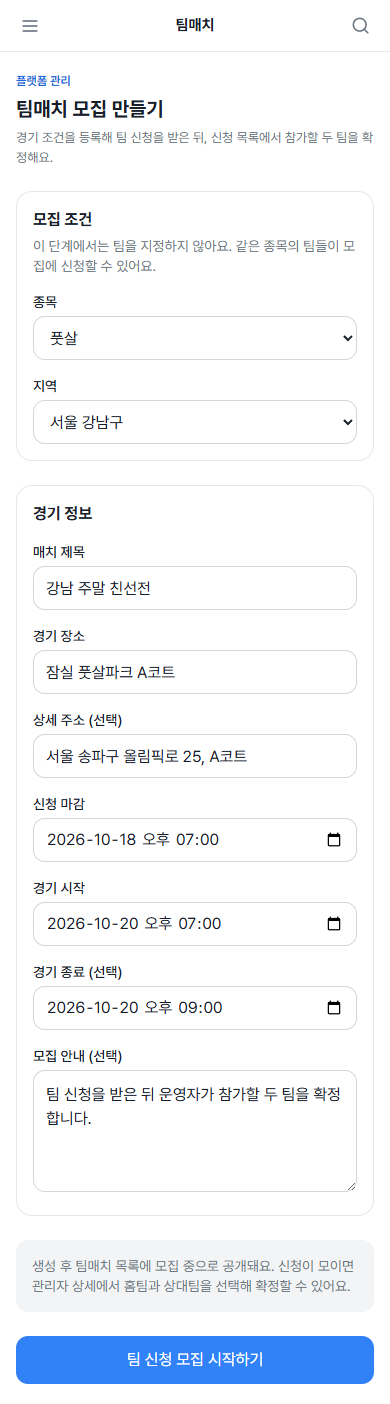
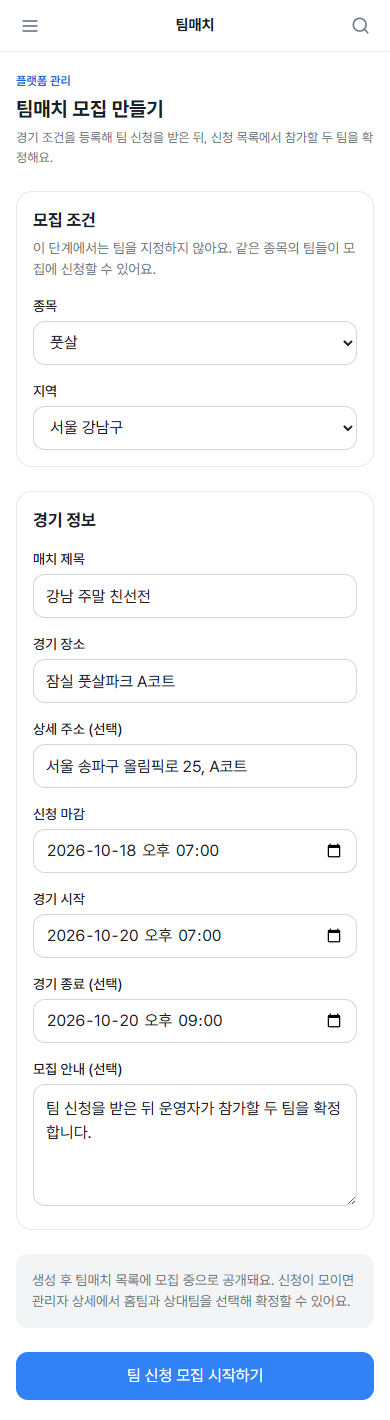
fix: use admin typography tokens

diff --git a/apps/v1_web/src/app/admin/team-matches/new/page.tsx b/apps/v1_web/src/app/admin/team-matches/new/page.tsx
@@ -14,7 +14,7 @@ import { randomUuid } from '@/lib/uuid';
 import { toDistrictRegionOptions } from '@/lib/v1-regions';
 
 const inputClass =
-  'h-[44px] w-full rounded-xl border border-[var(--border-strong)] bg-[var(--card-surface)] px-3 text-sm text-[var(--text-strong)] placeholder:text-gray-400 focus:border-blue-500 focus:outline-none focus:ring-2 focus:ring-blue-500/20 disabled:opacity-50';
+  'h-[44px] w-full rounded-xl border border-[var(--border-strong)] bg-[var(--card-surface)] px-3 text-[length:var(--font-size-body-sm)] text-[var(--text-strong)] placeholder:text-gray-400 focus:border-blue-500 focus:outline-none focus:ring-2 focus:ring-blue-500/20 disabled:opacity-50';
 
 export default function AdminTeamMatchNewPage() {
   const router = useRouter();
@@ -75,26 +75,26 @@ export default function AdminTeamMatchNewPage() {
       />
 
       {!canWrite && adminMe ? (
-        <div role="alert" className="rounded-xl border border-[var(--border)] bg-[var(--surface-soft)] p-4 text-sm text-[var(--text-muted)]">
+        <div role="alert" className="rounded-xl border border-[var(--border)] bg-[var(--surface-soft)] p-4 text-[length:var(--font-size-body-sm)] text-[var(--text-muted)]">
           지원 관리자에게는 팀매치 모집 생성 권한이 없어요.
         </div>
       ) : (
         <div className="space-y-6">
           <section className="space-y-4 rounded-2xl border border-[var(--border)] bg-[var(--card-surface)] p-4 md:p-5">
             <div>
-              <h2 className="text-base font-bold text-[var(--text-strong)]">모집 조건</h2>
-              <p className="mt-1 text-sm text-[var(--text-muted)]">이 단계에서는 팀을 지정하지 않아요. 같은 종목의 팀들이 모집에 신청할 수 있어요.</p>
+              <h2 className="text-[length:var(--font-size-body-lg)] font-bold text-[var(--text-strong)]">모집 조건</h2>
+              <p className="mt-1 text-[length:var(--font-size-body-sm)] text-[var(--text-muted)]">이 단계에서는 팀을 지정하지 않아요. 같은 종목의 팀들이 모집에 신청할 수 있어요.</p>
             </div>
             <div className="grid gap-4 md:grid-cols-2">
               <div>
-                <label htmlFor="admin-team-match-sport" className="mb-1 block text-sm font-medium text-[var(--text-strong)]">종목</label>
+                <label htmlFor="admin-team-match-sport" className="mb-1 block text-[length:var(--font-size-body-sm)] font-medium text-[var(--text-strong)]">종목</label>
                 <select id="admin-team-match-sport" value={sportId} onChange={(event) => setSportId(event.target.value)} className={inputClass}>
                   <option value="">종목 선택</option>
                   {(sports ?? []).map((sport) => <option key={sport.id} value={sport.id}>{sport.name}</option>)}
                 </select>
               </div>
               <div>
-                <label htmlFor="admin-team-match-region" className="mb-1 block text-sm font-medium text-[var(--text-strong)]">지역</label>
+                <label htmlFor="admin-team-match-region" className="mb-1 block text-[length:var(--font-size-body-sm)] font-medium text-[var(--text-strong)]">지역</label>
                 <select id="admin-team-match-region" value={regionId} onChange={(event) => setRegionId(event.target.value)} className={inputClass}>
                   <option value="">시·군·구 선택</option>
                   {regionOptions.map((region) => <option key={region.id} value={region.id}>{region.name}</option>)}
@@ -104,40 +104,40 @@ export default function AdminTeamMatchNewPage() {
           </section>
 
           <section className="space-y-4 rounded-2xl border border-[var(--border)] bg-[var(--card-surface)] p-4 md:p-5">
-            <h2 className="text-base font-bold text-[var(--text-strong)]">경기 정보</h2>
+            <h2 className="text-[length:var(--font-size-body-lg)] font-bold text-[var(--text-strong)]">경기 정보</h2>
             <div>
-              <label htmlFor="admin-team-match-title" className="mb-1 block text-sm font-medium text-[var(--text-strong)]">매치 제목</label>
+              <label htmlFor="admin-team-match-title" className="mb-1 block text-[length:var(--font-size-body-sm)] font-medium text-[var(--text-strong)]">매치 제목</label>
               <input id="admin-team-match-title" value={title} onChange={(event) => setTitle(event.target.value)} maxLength={100} placeholder="예: 강남 주말 친선전" className={inputClass} />
             </div>
             <div>
-              <label htmlFor="admin-team-match-place" className="mb-1 block text-sm font-medium text-[var(--text-strong)]">경기 장소</label>
+              <label htmlFor="admin-team-match-place" className="mb-1 block text-[length:var(--font-size-body-sm)] font-medium text-[var(--text-strong)]">경기 장소</label>
               <input id="admin-team-match-place" value={placeName} onChange={(event) => setPlaceName(event.target.value)} maxLength={120} placeholder="장소명" className={inputClass} />
             </div>
             <div>
-              <label htmlFor="admin-team-match-address" className="mb-1 block text-sm font-medium text-[var(--text-strong)]">상세 주소 (선택)</label>
+              <label htmlFor="admin-team-match-address" className="mb-1 block text-[length:var(--font-size-body-sm)] font-medium text-[var(--text-strong)]">상세 주소 (선택)</label>
               <input id="admin-team-match-address" value={addressText} onChange={(event) => setAddressText(event.target.value)} maxLength={200} placeholder="도로명 주소 또는 코트 안내" className={inputClass} />
             </div>
             <div className="grid gap-4 md:grid-cols-2">
               <div>
-                <label htmlFor="admin-team-match-deadline" className="mb-1 block text-sm font-medium text-[var(--text-strong)]">신청 마감</label>
+                <label htmlFor="admin-team-match-deadline" className="mb-1 block text-[length:var(--font-size-body-sm)] font-medium text-[var(--text-strong)]">신청 마감</label>
                 <input id="admin-team-match-deadline" type="datetime-local" value={deadlineAt} onChange={(event) => setDeadlineAt(event.target.value)} max={startsAt || undefined} className={inputClass} />
               </div>
               <div>
-                <label htmlFor="admin-team-match-start" className="mb-1 block text-sm font-medium text-[var(--text-strong)]">경기 시작</label>
+                <label htmlFor="admin-team-match-start" className="mb-1 block text-[length:var(--font-size-body-sm)] font-medium text-[var(--text-strong)]">경기 시작</label>
                 <input id="admin-team-match-start" type="datetime-local" value={startsAt} onChange={(event) => setStartsAt(event.target.value)} min={deadlineAt || undefined} className={inputClass} />
               </div>
             </div>
             <div>
-              <label htmlFor="admin-team-match-end" className="mb-1 block text-sm font-medium text-[var(--text-strong)]">경기 종료 (선택)</label>
+              <label htmlFor="admin-team-match-end" className="mb-1 block text-[length:var(--font-size-body-sm)] font-medium text-[var(--text-strong)]">경기 종료 (선택)</label>
               <input id="admin-team-match-end" type="datetime-local" value={endsAt} onChange={(event) => setEndsAt(event.target.value)} min={startsAt || undefined} className={inputClass} />
             </div>
             <div>
-              <label htmlFor="admin-team-match-description" className="mb-1 block text-sm font-medium text-[var(--text-strong)]">모집 안내 (선택)</label>
+              <label htmlFor="admin-team-match-description" className="mb-1 block text-[length:var(--font-size-body-sm)] font-medium text-[var(--text-strong)]">모집 안내 (선택)</label>
               <textarea id="admin-team-match-description" value={description} onChange={(event) => setDescription(event.target.value)} maxLength={2000} rows={4} className={`${inputClass} h-auto min-h-[112px] py-3`} />
             </div>
           </section>
 
-          <div className="rounded-xl bg-[var(--surface-soft)] p-4 text-sm text-[var(--text-muted)]">
+          <div className="rounded-xl bg-[var(--surface-soft)] p-4 text-[length:var(--font-size-body-sm)] text-[var(--text-muted)]">
             생성 후 팀매치 목록에 모집 중으로 공개돼요. 신청이 모이면 관리자 상세에서 홈팀과 상대팀을 선택해 확정할 수 있어요.
           </div>
 
@@ -145,7 +145,7 @@ export default function AdminTeamMatchNewPage() {
             type="button"
             onClick={() => void submit()}
             disabled={!canSubmit || createRecruitment.isPending}
-            className="min-h-[48px] w-full rounded-xl bg-blue-500 px-5 text-sm font-semibold text-white transition-colors hover:bg-blue-600 disabled:cursor-not-allowed disabled:opacity-50 focus-visible:outline-2 focus-visible:outline-blue-500 focus-visible:outline-offset-2"
+            className="min-h-[48px] w-full rounded-xl bg-blue-500 px-5 text-[length:var(--font-size-body-sm)] font-semibold text-white transition-colors hover:bg-blue-600 disabled:cursor-not-allowed disabled:opacity-50 focus-visible:outline-2 focus-visible:outline-blue-500 focus-visible:outline-offset-2"
           >
             {createRecruitment.isPending ? '모집 만드는 중…' : '팀 신청 모집 시작하기'}
           </button>

diff --git a/apps/v1_web/src/app/admin/team-matches/[id]/page.tsx b/apps/v1_web/src/app/admin/team-matches/[id]/page.tsx
@@ -117,41 +117,41 @@ function Applications({ teamMatch }: { teamMatch: V1AdminTeamMatchDetail }) {
 
       {isPlatformRecruitment && teamMatch.status === 'recruiting' && canWrite && (
         <div className="mt-5 rounded-xl border border-[var(--border)] bg-[var(--surface-soft)] p-4">
-          <h3 className="text-sm font-bold text-[var(--text-strong)]">참가팀 확정</h3>
-          <p className="mt-1 text-xs text-[var(--text-muted)]">신청한 팀 중 홈팀과 상대팀을 각각 선택하세요. 확정하면 나머지 신청은 거절 처리돼요.</p>
+          <h3 className="text-[length:var(--font-size-body-sm)] font-bold text-[var(--text-strong)]">참가팀 확정</h3>
+          <p className="mt-1 text-[length:var(--font-size-caption)] text-[var(--text-muted)]">신청한 팀 중 홈팀과 상대팀을 각각 선택하세요. 확정하면 나머지 신청은 거절 처리돼요.</p>
           <div className="mt-4 grid gap-3 sm:grid-cols-2">
-            <label className="text-xs font-semibold text-[var(--text-muted)]">
+            <label className="text-[length:var(--font-size-caption)] font-semibold text-[var(--text-muted)]">
               홈팀
               <select
                 aria-label="홈팀 신청"
                 value={homeApplicationId}
                 onChange={(event) => setHomeApplicationId(event.target.value)}
-                className="mt-1 h-[44px] w-full rounded-xl border border-[var(--border-strong)] bg-[var(--card-surface)] px-3 text-sm text-[var(--text-strong)]"
+                className="mt-1 h-[44px] w-full rounded-xl border border-[var(--border-strong)] bg-[var(--card-surface)] px-3 text-[length:var(--font-size-body-sm)] text-[var(--text-strong)]"
               >
                 <option value="">신청 선택</option>
                 {requested.map((application) => <option key={application.applicationId} value={application.applicationId} disabled={application.applicationId === awayApplicationId}>{application.applicantTeamName}</option>)}
               </select>
             </label>
-            <label className="text-xs font-semibold text-[var(--text-muted)]">
+            <label className="text-[length:var(--font-size-caption)] font-semibold text-[var(--text-muted)]">
               상대팀
               <select
                 aria-label="상대팀 신청"
                 value={awayApplicationId}
                 onChange={(event) => setAwayApplicationId(event.target.value)}
-                className="mt-1 h-[44px] w-full rounded-xl border border-[var(--border-strong)] bg-[var(--card-surface)] px-3 text-sm text-[var(--text-strong)]"
+                className="mt-1 h-[44px] w-full rounded-xl border border-[var(--border-strong)] bg-[var(--card-surface)] px-3 text-[length:var(--font-size-body-sm)] text-[var(--text-strong)]"
               >
                 <option value="">신청 선택</option>
                 {requested.map((application) => <option key={application.applicationId} value={application.applicationId} disabled={application.applicationId === homeApplicationId}>{application.applicantTeamName}</option>)}
               </select>
             </label>
           </div>
-          {requested.length < 2 && <p className="mt-3 text-xs text-[var(--text-muted)]">대기 중인 신청이 두 건 이상 모이면 확정할 수 있어요.</p>}
-          {message && <p role="status" className="mt-3 text-xs text-[var(--text-body)]">{message}</p>}
+          {requested.length < 2 && <p className="mt-3 text-[length:var(--font-size-caption)] text-[var(--text-muted)]">대기 중인 신청이 두 건 이상 모이면 확정할 수 있어요.</p>}
+          {message && <p role="status" className="mt-3 text-[length:var(--font-size-caption)] text-[var(--text-body)]">{message}</p>}
           <button
             type="button"
             disabled={!canAssign || assign.isPending}
             onClick={() => void submitAssignment()}
-            className="mt-4 min-h-[44px] w-full rounded-xl bg-blue-500 px-4 text-sm font-semibold text-white hover:bg-blue-600 disabled:cursor-not-allowed disabled:opacity-50"
+            className="mt-4 min-h-[44px] w-full rounded-xl bg-blue-500 px-4 text-[length:var(--font-size-body-sm)] font-semibold text-white hover:bg-blue-600 disabled:cursor-not-allowed disabled:opacity-50"
           >
             {assign.isPending ? '두 팀 확정 중…' : '선택한 두 팀 매치 확정'}
           </button>

diff --git a/apps/v1_web/src/app/admin/team-matches/page.tsx b/apps/v1_web/src/app/admin/team-matches/page.tsx
@@ -126,7 +126,7 @@ function AdminTeamMatchesPageContent() {
           canWrite ? (
             <Link
               href="/admin/team-matches/new"
-              className="inline-flex min-h-[44px] items-center justify-center rounded-xl bg-blue-500 px-4 text-sm font-semibold text-white transition-colors hover:bg-blue-600 focus-visible:outline-2 focus-visible:outline-blue-500 focus-visible:outline-offset-2"
+              className="inline-flex min-h-[44px] items-center justify-center rounded-xl bg-blue-500 px-4 text-[length:var(--font-size-body-sm)] font-semibold text-white transition-colors hover:bg-blue-600 focus-visible:outline-2 focus-visible:outline-blue-500 focus-visible:outline-offset-2"
             >
               모집 만들기
             </Link>
